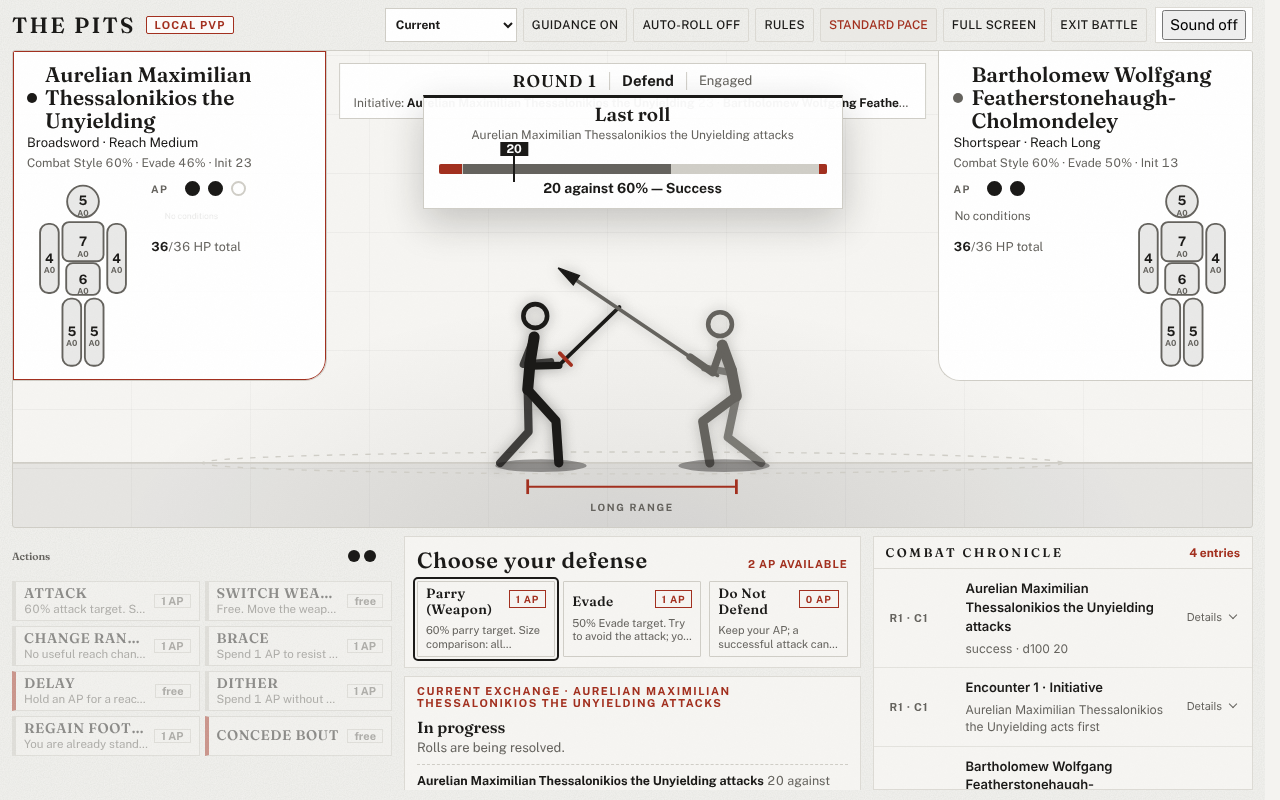
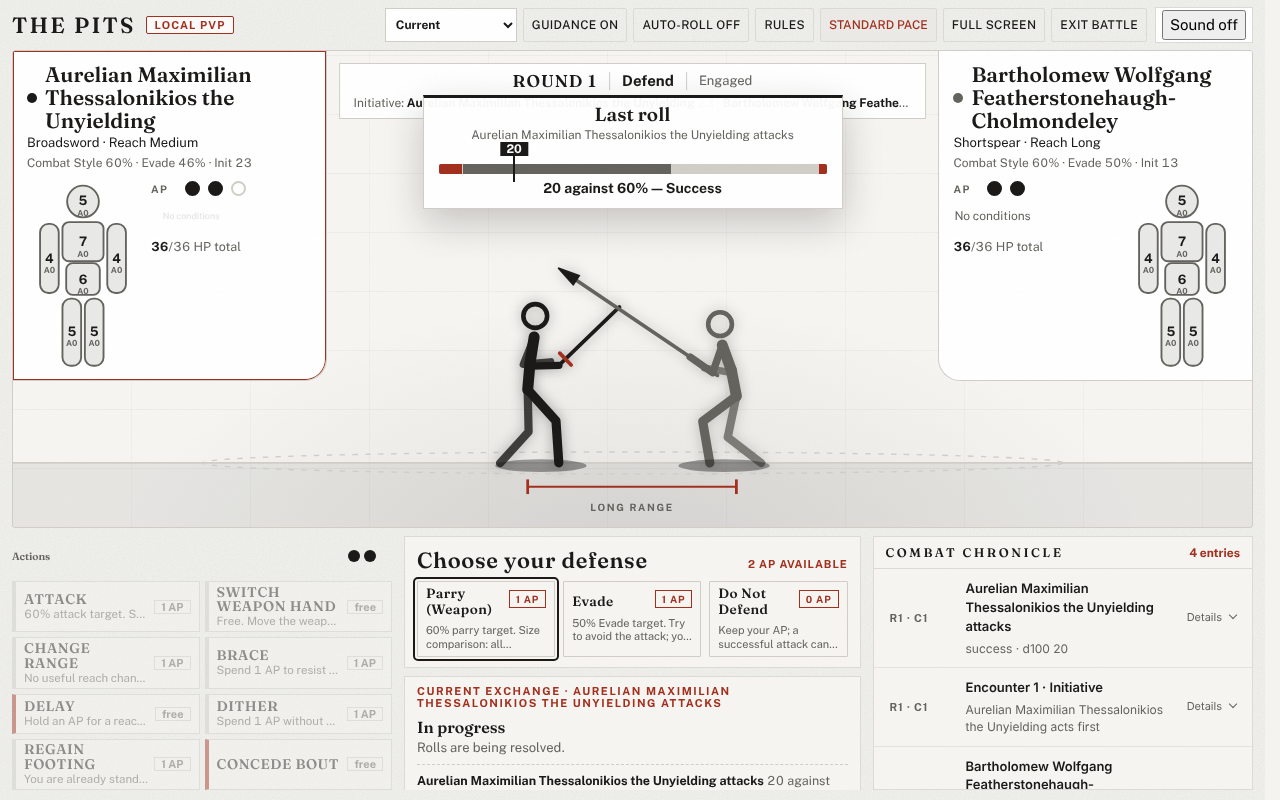
fix(pits): trips sit the fighter down, an impaled weapon is not thrown; Copy fight record on the spring trial
A successful Trip now puts the fighter on its backside instead of the defeat
crumble. A weapon left in an Impale wound is no longer also thrown to the floor.
The trial's top bar gets a Copy fight record button so faults seen in play can
be replayed exactly. The reported miss order did not reproduce; a scripted check
for it is added with the Impale and Trip cases.

Claude-Session: https://claude.ai/code/session_018bTfyrsXRiDuLVQKUrPrK4

Changed region(s): [[0.125, 0.7188, 0.3125, 0.9688], [0.0, 0.7188, 0.125, 1.0]]

diff --git a/experiments/pits-arena.js b/experiments/pits-arena.js
@@ -285,16 +285,38 @@ function pitsArenaBarHtml(){
     <div class="pa-tools">${typeof pitsBottomSelectHtml==='function'?pitsBottomSelectHtml():''}${guidanceToggleHtml()}<button type="button" class="toolbutton" data-pa="auto" aria-pressed="${PA.auto}">Auto-roll ${PA.auto?'on':'off'}</button>
     <button type="button" class="toolbutton" data-act="help">Rules</button>
     <button type="button" class="toolbutton pacebutton" data-act="speed" aria-label="Toggle combat presentation pace" aria-pressed="${V.quick}">${V.quick?'Quick pace':'Standard pace'}</button>
+    ${typeof PS_SPRING!=='undefined'&&PS_SPRING?'<button type="button" class="toolbutton" data-pa="record" title="Copies this fight (dice, rulings and what the stage drew, in order) to paste to Claude">Copy fight record</button>':''}
     <button type="button" class="toolbutton" data-pa="fs" aria-pressed="${!!document.fullscreenElement}">Full screen</button>
     <button type="button" class="toolbutton" data-act="reset">Exit battle</button></div>${bout}`;
 }
 function pitsArenaBarWire(){
   const b=document.querySelector('[data-pa="auto"]');
   if(b&&!b.dataset.wired){b.dataset.wired='1';b.addEventListener('click',()=>{PA.auto=!PA.auto;render();});}
+  const rec=document.querySelector('[data-pa="record"]');
+  if(rec&&!rec.dataset.wired){rec.dataset.wired='1';rec.addEventListener('click',()=>pitsCopyRecord(rec));}
   const fs=document.querySelector('[data-pa="fs"]');
   if(fs&&!fs.dataset.wired){fs.dataset.wired='1';fs.addEventListener('click',()=>{
     try{const p=document.fullscreenElement?document.exitFullscreen():document.documentElement.requestFullscreen();if(p&&p.then)p.then(render,()=>{});}catch(e){}
   });}
+}
+// The spring trial's fight record, for reporting a fault: the dice and rulings in the order they were presented, the
+// engine's log in its own order, and what the stage drew (declared actions, blows, contacts) with its clock. Copied
+// to the clipboard; if the browser refuses, shown in a box to copy by hand.
+function pitsFightRecord(){
+  const sh=e=>e.roll?{roll:[e.roll.actor,e.roll.label,e.roll.values]}:e.checkpoint?{cp:1}:{id:e.id,t:e.title,b:e.body};
+  const stage=(window.__psRecord||[]).map(r=>[r.c,r.type,r.kind||r.outcome||r.how||'',r.actor||'',r.target||'',r.loc||'',r.lost||0]);
+  return JSON.stringify({record:'pits-spring-1',at:new Date().toISOString(),page:location.search,ua:navigator.userAgent,
+    config,mode:S.mode,guidance:!!V.guidance,quick:!!V.quick,auto:!!PA.auto,bottom:document.body.dataset.bottom||'',
+    fighters:{a:{name:S.fighters.a.name,weapon:S.fighters.a.weapon,shield:S.fighters.a.shield},b:{name:S.fighters.b.name,weapon:S.fighters.b.weapon,shield:S.fighters.b.shield}},
+    presented:(V.tape||[]).map(sh),log:(S.logs||[]).map(l=>({id:l.id,t:l.title,b:l.body})),stage});
+}
+function pitsCopyRecord(btn){
+  const text=pitsFightRecord(),done=()=>{btn.textContent='Copied';setTimeout(()=>{btn.textContent='Copy fight record';},2000);};
+  const box=()=>{document.getElementById('paRecord')?.remove();const d=document.createElement('div');d.id='paRecord';d.className='modal pa-rules';
+    d.setAttribute('role','dialog');d.setAttribute('aria-modal','true');d.setAttribute('aria-label','Fight record');
+    d.innerHTML='<div class="mbox"><h2>Fight record</h2><p>Copy all of this and paste it to Claude.</p><textarea readonly rows="12" style="width:100%"></textarea><p class="pa-rules-close"><button type="button" class="toolbutton">Close</button></p></div>';
+    d.querySelector('textarea').value=text;d.querySelector('button').addEventListener('click',()=>d.remove());document.body.append(d);d.querySelector('textarea').select();};
+  try{navigator.clipboard.writeText(text).then(done,box);}catch(e){box();}
 }
 // The battle is one screen with no page scroll, so the rules notes and the Special Effects
 // catalogue (which sit below the fold outside a fight) open in a window instead.

diff --git a/experiments/pits-stage.js b/experiments/pits-stage.js
@@ -369,7 +369,10 @@ const psSfx=k=>{try{if(typeof pitsSfx==='function')pitsSfx(k);}catch(e){}};
 const psLayer=c=>document.querySelector('#pitsStage .'+c);
 // Test and review hook: every stage event is recorded when a page asks for it.
 function psEmit(type,data){
-  try{if(window.__psRecord){window.__psRecord.push({t:Math.round(performance.now()),type,...data});
+  // (the spring trial keeps its own record for the Copy fight record button: what was drawn, in order, on the stage clock)
+  try{if(PS_SPRING&&!window.__psRecord)window.__psRecord=[];}catch(e){}
+  try{if(window.__psRecord){window.__psRecord.push({t:Math.round(performance.now()),c:Math.round(PS.clock),type,...data});
+    if(window.__psRecord.length>6000)window.__psRecord.splice(0,1000);
     // a review page may freeze the picture at the moment of contact (window.__psFreeze) and thaw it after the screenshot
     if(type==='contact'&&window.__psFreeze)psFreeze();}}catch(e){}
   // the plates take the damage when the blade reaches the body, not at the guard of a partial parry
@@ -1127,7 +1130,7 @@ async function psMotionCue(cue){
     }else if(cue.type==='trip'&&tgt&&me){
       // stand-in until trips have a phrase: a blow at the front leg; if it goes, the fall
       psDom(psWorld(me,me.pts?me.pts.Sh:[0,-60]),'Trip Opponent','fx');PS.intents={};
-      const r=L.blow(PS.M,me.id,PS.clock,{outcome:'armour',loc:'rleg',lost:0,fall:cue.fell,flow:psReplaying()});
+      const r=L.blow(PS.M,me.id,PS.clock,{outcome:'armour',loc:'rleg',lost:0,fall:cue.fell?'sit':false,flow:psReplaying()});
       PS.busyUntil=r.end;me.spent=tgt.spent=true;if(cue.fell)tgt.mDown=true;
       const c=r.contacts[r.contacts.length-1],w=psW(c.at);await psUntil(c.t);
       psEmit('contact',{kind:'trip',actor:me.id,target:tgt.id,point:w.map(Math.round)});psBurst(w,'spark',10);psRing(w);
@@ -1346,7 +1349,10 @@ function pitsStageSync(){
     if(f.dropAhead){if(!f.look.armed)f.dropAhead=false;else if(V.busy||V.hold)f.look.armed=false;else f.dropAhead=false;}
     if(f.look.armed&&f.dropEl){f.dropEl.remove();f.dropEl=null;}
     // A weapon already on the floor (for example after Show results) stays there.
-    if(!f.look.armed&&!f.dropEl&&view[id].disarmed)psFlyWeapon(f,view[id].droppedMetres||2);
+    // (not a weapon left in the other fighter's wound: Impale, "leave it in" marks the wielder disarmed, but the weapon
+    // is drawn where it is lodged, not thrown to the floor as well)
+    const lodgedIn=(view[id==='a'?'b':'a'].impaledWounds||[]).some(w=>w&&w.attacker===id);
+    if(!f.look.armed&&!f.dropEl&&view[id].disarmed&&!lodgedIn)psFlyWeapon(f,view[id].droppedMetres||2);
     f.end=null;
   }
   // Press Advantage: the effect is active while the engine says the opponent still cannot attack (pressedTurns).

diff --git a/experiments/pits-spring-live.js b/experiments/pits-spring-live.js
@@ -95,7 +95,7 @@ function blow(F,aid,t,s){
     if(w.down&&w.down[did]){const f=w.S.F[did];f.groundWrite=true;
       f.key(r.tc||u0+400,{py:13,lean:72,bend:10,head:30,h:[34,-20],w:-4,o:[26,-22]});f.groundWrite=false;}}
   if(r.down)(w.down=w.down||{})[r.down]=true;           // an evade that ended on the ground: already down
-  else if(s.fall)end=fallAt(w,did,r.t);
+  else if(s.fall)end=fallAt(w,did,r.t,s.fall==='sit'?'sit':null);
   rerun(w,end+500);
   // (the exchange's own recovery plays on to the hold; what it had planned for after that is dropped by the next write)
   // s.flow (the replay): nothing holds between exchanges, so there is no hold to choose, and the next exchange is
@@ -165,8 +165,9 @@ function declare(w,id,kind,u,pick){
 
 // ----- stand-ins (kept simple until they have phrases) -----
 function keyAt(m,t,fn){const w=world(m,t);if(!w)return null;const u=Math.max(tau(w,t),w.next);w.S.now=u;const e=fn(w.S.F[m.id],u,w);w.next=Math.max(w.next,e);rerun(w,e);return clock(w,e);}
-function fallAt(w,id,u){const f=w.S.F[id],x=PW.standAt(f);w.S.now=Math.max(w.S.now,u);(w.down=w.down||{})[id]=true;
-  return PW.crumble(f,u,x);}
+// how: 'sit' for a trip (the fighter is put on its backside), otherwise the crumble
+function fallAt(w,id,u,how){const f=w.S.F[id],x=PW.standAt(f);w.S.now=Math.max(w.S.now,u);(w.down=w.down||{})[id]=true;
+  return how==='sit'?PW.sit(f,u,x):PW.crumble(f,u,x);}
 function fall(m,t){const w=world(m,t);if(!w||w.over||(w.down&&w.down[m.id]))return t;const u=Math.max(tau(w,t),w.next);const e=fallAt(w,m.id,u);w.next=e;rerun(w,e);return clock(w,e);}
 function stand(m,t){const w0=world(m,t);if(w0&&w0.down)w0.down[m.id]=false;if(w0)w0.S.F[m.id].grounded=false;return keyAt(m,t,(f,u)=>{const x=PW.standAt(f);f.key(u,{px:x-6,py:44,lean:24,bend:10,head:-10},'together');
   // (from the heap the feet are under the body: the rear foot goes back to push up, the front one out into a stance)

diff --git a/experiments/pits-writer.js b/experiments/pits-writer.js
@@ -796,6 +796,19 @@ function crumble(f,u,x){
   return u+760;
 }
 
+// A trip (owner, 2026-11-13: "getting tripped is different and should put you on your ass"): not the crumble of a
+// defeat. The swept front foot goes out from under, the hips drop back and down onto the floor, the body tips back
+// and the empty hand goes behind to catch the weight; the legs end out in front, knees up, and the weapon stays up
+// toward the other fighter. x: where the fighter stands.
+function sit(f,u,x){
+  f.key(u,{px:x-8,py:60,lean:-12,bend:-6,head:-8,h:[20,-30],w:44,o:[-8,-34]},'together');
+  f.step('ff',u,u+200,x+30,18);
+  f.key(u+220,{px:x-32,py:32,lean:-22,bend:-6,head:2,h:[22,-24],w:34,o:[-30,6]});
+  f.step('bf',u+180,u+400,x-4,6);
+  f.key(u+440,{px:x-40,py:13,lean:-14,bend:2,head:-6,h:[24,-16],w:26,o:[-36,42]});
+  return u+640;
+}
+
 // A shield strike met by the blade does not get all the way in: the same movement, at a longer measure, so there is
 // room between the two for the blade on the shield (chest to chest, any blade on the shield reaches the striker)
 PHRASES.shieldStrikeMet={...PHRASES.shieldStrike,gap:160};
@@ -998,7 +1011,7 @@ function write(records,opt){
   return seq;
 }
 
-const api={calibrate:null,write,create,exchange,intent,variants,crumble,pick,PHRASES,ZONE,standAt,gapOf,planned,takeMeasure,profile,shieldR};
+const api={calibrate:null,write,create,exchange,intent,variants,crumble,sit,pick,PHRASES,ZONE,standAt,gapOf,planned,takeMeasure,profile,shieldR};
 root.PitsWriter=api;
 if(typeof module!=='undefined'&&module.exports)module.exports=api;
 })(typeof window!=='undefined'?window:globalThis);

diff --git a/experiments/practice-combat.html b/experiments/practice-combat.html
@@ -552,13 +552,13 @@ body{background:radial-gradient(ellipse at 50% 5%,var(--ink-2),var(--ink-0) 70%)
 <script src="practice-guidance.js?v=c187d04720"></script>
 <script src="pits-view.js?v=d94d8e0612"></script>
 <script src="pits-game.js?v=3769cec741"></script>
-<script src="pits-arena.js?v=2fced3bfb1"></script>
+<script src="pits-arena.js?v=db6576548c"></script>
 <script src="pits-bottom.js?v=32d0eb300a"></script>
 <script src="pits-motion.js?v=a311e953d9"></script>
 <script src="pits-spring.js?v=498167feee"></script>
-<script src="pits-writer.js?v=0ce44cd40a"></script>
-<script src="pits-spring-live.js?v=ad23eb54ca"></script>
-<script src="pits-stage.js?v=2af7e752f6"></script>
+<script src="pits-writer.js?v=6691a13739"></script>
+<script src="pits-spring-live.js?v=9b3214dabd"></script>
+<script src="pits-stage.js?v=ba22112b8e"></script>
 <script>
 'use strict';
 // The combat rules themselves live in ../js/combat-rules.js (CombatRules),

diff --git a/experiments/pits-fight-study.html b/experiments/pits-fight-study.html
@@ -59,7 +59,7 @@ document.documentElement.setAttribute("data-mode",m);})();}catch(e){}</script>
 </main>
 <script src="pits-motion.js?v=a311e953d9"></script>
 <script src="pits-spring.js?v=498167feee"></script>
-<script src="pits-writer.js?v=0ce44cd40a"></script>
+<script src="pits-writer.js?v=6691a13739"></script>
 <script src="pits-fixtures.js?v=dc67a00d55"></script>
 <script src="pits-fight.js?v=c94d238984"></script>
 <script src="pits-exchange-study.js?v=3189999f49"></script>

diff --git a/HANDOFF.md b/HANDOFF.md
@@ -5,7 +5,7 @@ Read `AGENTS.md`, then this, at the start of every session; update it before end
 **Owner kickoff line for a new Claude session** (paste as the first message):
 > Read AGENTS.md and HANDOFF.md, then continue with the next Claude item.
 
-_Last updated: 2026-11-13 by Claude (Pits: Prone chip timing, clipped action names)_
+_Last updated: 2026-11-13 by Claude (Pits: trip fall, impaled weapon, fight record)_
 
 ## Where things stand
 
@@ -15,6 +15,8 @@ _Last updated: 2026-11-13 by Claude (Pits: Prone chip timing, clipped action nam
 - **Combat rules** live in `js/combat-rules.js` (`CombatRules`), shared by Play Mode and The Pits; tests in `tests/combat-rules.cjs`. The Pits is melee only (owner, 2026-11-07).
 
 ## Next
+
+0000000000000000000000. **Claude, done 2026-11-13 (owner's play notes):** on `claude/sharp-franklin-mbjthj` (pushed, no PR). A trip now sits the fighter on its backside (`PitsWriter.sit`), and a weapon left in an Impale wound is no longer also thrown to the floor. The miss-order report (my miss drawn after the opponent's next attack and my parry) did **not** reproduce in scripted bouts (two-player and against the computer, every reaction, Trip and Disarm effects, Guidance on and off) or in 20 random bouts. **Owner:** when it happens again, press **Copy fight record** in the top bar straight away and paste it to Claude, with one line on which moment looked wrong. **Then Claude:** replay that record and fix the order; then "Instructions for Opus" item 2 (attacks and defences from the ground).
 
 000000000000000000000. **Claude, done 2026-11-13 (Work's check of the spring preview):** on branch `claude/sharp-franklin-mbjthj` (contains `claude/fable-combat-fluidity-jus18q`; pushed, no PR). The plate's Prone chip now waits for the figure to go down (it was ahead after an Evade), and long action names wrap instead of being cut off. Still not done: attacks and defences from the ground (only the arms move), next in "Instructions for Opus" item 2. Still to be seen by eye: replay, shield strike, Disarm and the finishing blow. **Owner:** play `https://raw.githack.com/colemak1/mythras-character-forge/claude/sharp-franklin-mbjthj/experiments/practice-combat.html?stage=spring`.
 

diff --git a/CHANGELOG.md b/CHANGELOG.md
@@ -5,6 +5,13 @@ Entries before November 5, 2026 were merged from separate `CHANGELOG-<TOPIC>.md`
 
 ---
 
+## The Pits trial: trips sit you down, an impaled weapon stays put, a fight record to report faults
+
+- A successful Trip now puts the fighter on its backside: the swept foot goes out, the hips drop back onto the floor, a hand goes behind and the weapon stays up toward the other fighter. It is no longer the crumble onto the knees used for a defeat (owner, 2026-11-13). Leg wounds and defeats still crumble.
+- Impale, "Leave it in the wound": the weapon is drawn lodged in the wound only. The engine marks the wielder unarmed, and the stage had also thrown a weapon to the floor behind them as if they had been disarmed.
+- New on the `?stage=spring` trial: a **Copy fight record** button in the top bar. It copies the fight's dice and rulings in the order they were shown, the engine's log, and what the stage drew, so a fault seen in play can be replayed exactly.
+- The reported miss order (my miss drawn only after the opponent's next attack and my parry) did not reproduce in scripted or random bouts against either opponent type; a check for it is in the new `tests/visual/pits-spring-scripted.cjs`, with the Impale and Trip cases.
+
 ## The Pits trial: the Prone chip waits for the figure; action names shown whole
 
 - On the `?stage=spring` trial a fighter's plate no longer says Prone before the figure is seen to go down. After an Evade the engine has the evader prone from the roll, but the dodge to the ground is drawn only when the exchange is resolved; through the hit location and damage rolls the plate said Prone over a standing figure. The chip now appears at the blow's contact, when the figure goes down (the opponent panel in the bottom layouts too). Rules and state are unchanged; other stages are unchanged.

diff --git a/docs/pits-animation-direction.md b/docs/pits-animation-direction.md
@@ -456,6 +456,8 @@ The whole suite passes.
 
 **Not done (same report):** attacks and defence from the ground (only the arms move); action names clipped in the deck's two narrow columns (`pits-arena.css`).
 
+**Owner's play notes, 2026-11-13 (second set):** trips now use `PitsWriter.sit` (on the backside, legs out, weapon up; `fall:'sit'` through `PitsSpringLive.blow`), not the crumble. A weapon left in an Impale wound is not thrown by the sync (`lodgedIn`). The miss order did not reproduce; the trial now has a **Copy fight record** button (`pitsFightRecord` in `pits-arena.js`: presented order, engine log, stage record with clock) so the owner's next case can be replayed. Scripted checks: `tests/visual/pits-spring-scripted.cjs`.
+
 **Work's check of the preview, 2026-11-13 (done):** the plate said Prone before the figure went down (after an Evade, through the location and damage rolls). The HUD now asks the stage (`pitsStageShownProne`): the chip follows `mDown` and the blow's first contact (`downAt`), and the stage rewrites only the chips at that contact (`pitsArenaConditions`). The clipped action names now wrap. Attacks and defence from the ground are still not done.
 
 ## Instructions for Opus (written 2026-11-13, after the fluid-flow batch)
